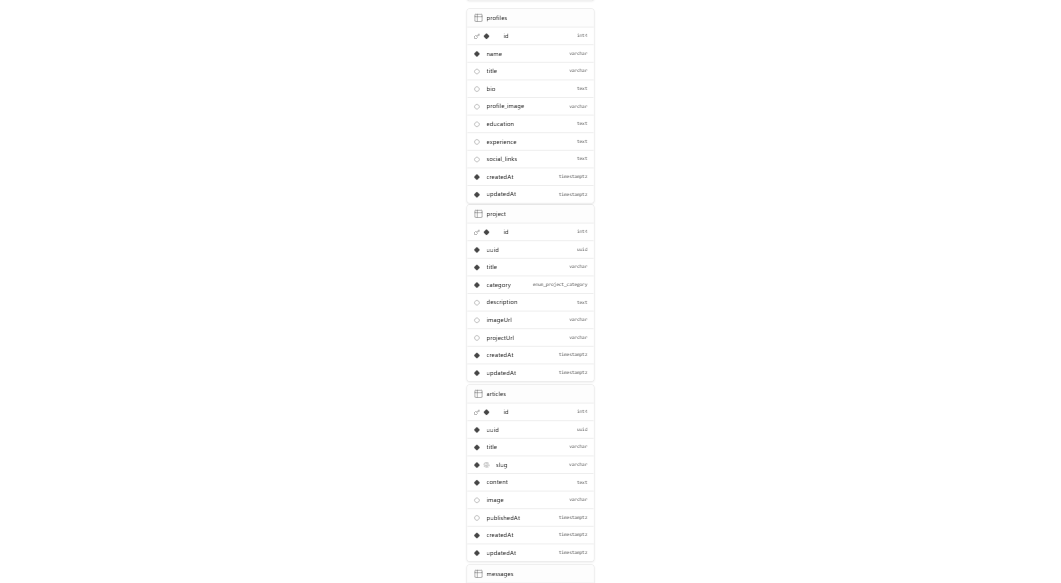
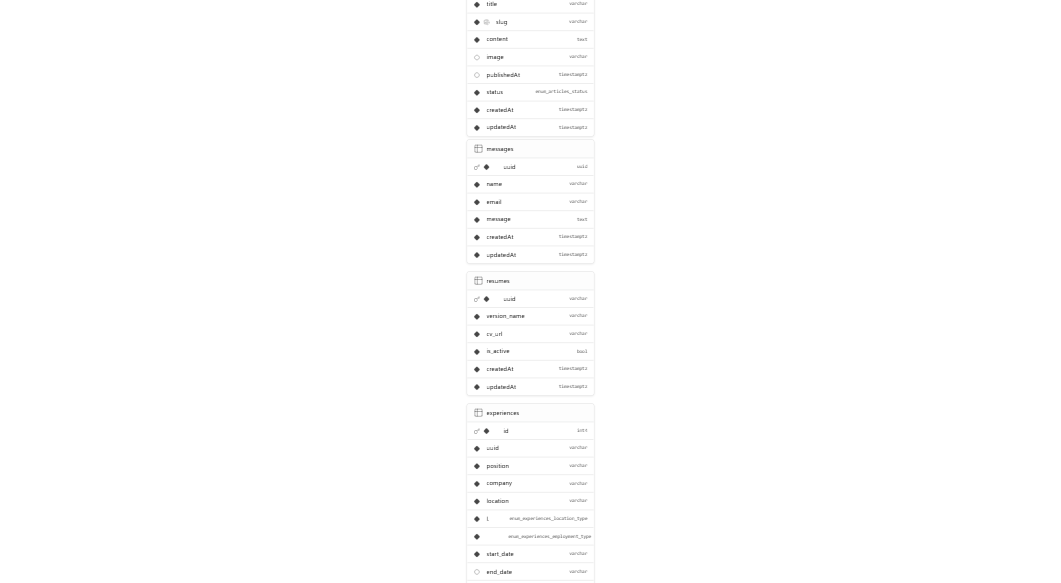
feat: tambah endpoint upload gambar profil

diff --git a/index.js b/index.js
@@ -4,7 +4,7 @@ import dotenv from "dotenv";
 import path from "path";
 import bcrypt from 'bcrypt';
 import { fileURLToPath } from "url";
-import db from "./config/database.js";
+import db from "./config/Database.js";
 import UserModel from './models/UserModel.js';
 
 import AuthRoute from "./routes/AuthRoute.js";
@@ -17,6 +17,7 @@ import ExperienceRoute from "./routes/ExperienceRoute.js";
 import EducationRoute from "./routes/EducationRoute.js";
 import CertificationRoute from "./routes/CertificationRoute.js";
 import SkillRoute from "./routes/SkillRoute.js";
+import UploadRoute from "./routes/UploadRoute.js";
 
 dotenv.config();
 
@@ -80,6 +81,7 @@ app.use('/api', ExperienceRoute);
 app.use('/api', EducationRoute);
 app.use('/api', CertificationRoute);
 app.use('/api', SkillRoute);
+app.use('/api', UploadRoute);
 
 // Endpoint Utama (Merender tampilan views/index.ejs)
 app.get('/', (req, res) => {

diff --git a/routes/UploadRoute.js b/routes/UploadRoute.js
@@ -1,0 +1,23 @@
+import express from "express";
+import upload from "../middleware/UploadMiddleware.js";
+import { verifyToken, adminOnly } from "../middleware/AuthMiddleware.js";
+
+const router = express.Router();
+
+router.post("/upload", verifyToken, adminOnly, upload.single("image"), (req, res) => {
+    try {
+        if (!req.file) {
+            return res.status(400).json({ success: false, message: "Tidak ada file yang diunggah." });
+        }
+        const imageUrl = `/uploads/${req.file.filename}`;
+        return res.status(200).json({
+            success: true,
+            message: "Gambar berhasil diunggah.",
+            url: imageUrl
+        });
+    } catch (error) {
+        return res.status(500).json({ success: false, message: error.message });
+    }
+});
+
+export default router;
